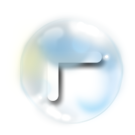
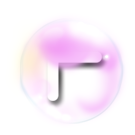
theme4

Changed region(s): [[0.1481, 0.1481, 0.9185, 0.8593], [0.2963, 0.7111, 0.3852, 0.7704]]

diff --git a/PopnTouchi2/PopnTouchi2/ViewModel/ThemeChooser.cs b/PopnTouchi2/PopnTouchi2/ViewModel/ThemeChooser.cs
@@ -29,7 +29,7 @@ namespace PopnTouchi2.ViewModel
         /// <summary>
         /// TODO
         /// </summary>
-        public StackPanel Themes { get; set; }
+        public Grid Themes { get; set; }
 
         private Border border1;
         private Grid GridTheme1;
@@ -37,6 +37,8 @@ namespace PopnTouchi2.ViewModel
         private Grid GridTheme2;
         private Border border3;
         private Grid GridTheme3;
+        private Border border4;
+        private Grid GridTheme4;
         public Grid Bird { get; set; }
 
         /// <summary>
@@ -51,8 +53,9 @@ namespace PopnTouchi2.ViewModel
             Grid.Background = new SolidColorBrush(Colors.Black);
             Grid.Opacity = 0.8;
 
-            Themes = new StackPanel();
-            Themes.Orientation = Orientation.Horizontal;
+            Themes = new Grid();
+            Themes.Width = 1036 * ratio;
+            Themes.Height = 626 * ratio;
             Themes.VerticalAlignment = VerticalAlignment.Center;
             Themes.HorizontalAlignment = HorizontalAlignment.Center;
             Themes.Opacity = 1;
@@ -60,7 +63,9 @@ namespace PopnTouchi2.ViewModel
             border1 = new Border();
             border1.BorderBrush = new SolidColorBrush(Colors.White);
             border1.BorderThickness = new Thickness(4.0 * ratio);
-            border1.Margin = new Thickness(20.0 * ratio, 0, 20.0 * ratio, 0);
+            border1.Margin = new Thickness(20.0 * ratio, 20.0 * ratio, 20.0 * ratio, 20.0 * ratio);
+            border1.HorizontalAlignment = HorizontalAlignment.Left;
+            border1.VerticalAlignment = VerticalAlignment.Top;
             GridTheme1 = new Grid();
             GridTheme1.Width = 470.0 * ratio;
             GridTheme1.Height = 265.0 * ratio;
@@ -74,7 +79,9 @@ namespace PopnTouchi2.ViewModel
             border2 = new Border();
             border2.BorderBrush = new SolidColorBrush(Colors.White);
             border2.BorderThickness = new Thickness(4.0 * ratio);
-            border2.Margin = new Thickness(20.0 * ratio, 0, 20.0 * ratio, 0);
+            border2.Margin = new Thickness(20.0 * ratio, 20.0 * ratio, 20.0 * ratio, 20.0 * ratio);
+            border2.HorizontalAlignment = HorizontalAlignment.Right;
+            border2.VerticalAlignment = VerticalAlignment.Top;
             GridTheme2 = new Grid();
             GridTheme2.Width = 470.0 * ratio;
             GridTheme2.Height = 265.0 * ratio;
@@ -88,7 +95,9 @@ namespace PopnTouchi2.ViewModel
             border3 = new Border();
             border3.BorderBrush = new SolidColorBrush(Colors.White);
             border3.BorderThickness = new Thickness(4.0 * ratio);
-            border3.Margin = new Thickness(20.0 * ratio, 0, 20.0 * ratio, 0);
+            border3.Margin = new Thickness(20.0 * ratio, 0, 20.0 * ratio, 20.0 * ratio);
+            border3.HorizontalAlignment = HorizontalAlignment.Left;
+            border3.VerticalAlignment = VerticalAlignment.Bottom;
             GridTheme3 = new Grid();
             GridTheme3.Width = 470.0 * ratio;
             GridTheme3.Height = 265.0 * ratio;
@@ -98,6 +107,22 @@ namespace PopnTouchi2.ViewModel
             border3.Child = GridTheme3;
 
             GridTheme3.PreviewTouchDown += new EventHandler<TouchEventArgs>(GridTheme3_TouchDown);
+
+            border4 = new Border();
+            border4.BorderBrush = new SolidColorBrush(Colors.White);
+            border4.BorderThickness = new Thickness(4.0 * ratio);
+            border4.Margin = new Thickness(20.0 * ratio, 0, 20.0 * ratio, 0);
+            border4.HorizontalAlignment = HorizontalAlignment.Right;
+            border4.VerticalAlignment = VerticalAlignment.Bottom;
+            GridTheme4 = new Grid();
+            GridTheme4.Width = 470.0 * ratio;
+            GridTheme4.Height = 265.0 * ratio;
+            ImageBrush img4 = new ImageBrush();
+            img4.ImageSource = new BitmapImage(new Uri(@"../../Resources/Images/Theme4/background.jpg", UriKind.Relative));
+            GridTheme4.Background = img4;
+            border4.Child = GridTheme4;
+
+            GridTheme4.PreviewTouchDown += new EventHandler<TouchEventArgs>(GridTheme4_TouchDown);
 
             Bird = new Grid();
             Bird.Width = 140.0 * ratio;
@@ -110,6 +135,7 @@ namespace PopnTouchi2.ViewModel
             Themes.Children.Add(border1);
             Themes.Children.Add(border2);
             Themes.Children.Add(border3);
+            Themes.Children.Add(border4);
             
         }
 
@@ -298,6 +324,68 @@ namespace PopnTouchi2.ViewModel
             sessionVM.Session.StopBackgroundSound();
             sessionVM.Session.Theme = new Theme3();
             sessionVM.Session.ThemeID = 3;
+            sessionVM.ThemeVM = new ThemeViewModel(sessionVM.Session.Theme, sessionVM);
+            sessionVM.Grid.Background = sessionVM.ThemeVM.BackgroundImage;
+
+            sessionVM.Grid.Children.Remove(sessionVM.NbgVM.Grid);
+            sessionVM.Grid.Children.Remove(sessionVM.MbgVM.Grid);
+            sessionVM.Grid.Children.Remove(sessionVM.Bubbles);
+            sessionVM.Grid.Children.Remove(sessionVM.UpdateSound.Grid);
+            sessionVM.Grid.Children.Remove(sessionVM.Play_Button);
+            sessionVM.Grid.Children.Remove(sessionVM.Theme_Button);
+            sessionVM.Grid.Children.Remove(sessionVM.TreeUp.Grid);
+            sessionVM.Grid.Children.Remove(sessionVM.TreeDown.Grid);
+
+
+            sessionVM.NbgVM = new NoteBubbleGeneratorViewModel(sessionVM.Session.NoteBubbleGenerator, sessionVM);
+            sessionVM.MbgVM = new MelodyBubbleGeneratorViewModel(sessionVM.Session.MelodyBubbleGenerator, sessionVM);
+            sessionVM.Bubbles = new ScatterView();
+            sessionVM.UpdateSound = new ChangeSoundViewModel(sessionVM);
+            sessionVM.Play_Button.Background = sessionVM.ThemeVM.PlayImage;
+            sessionVM.Theme_Button.Background = sessionVM.ThemeVM.ThemesImage;
+            sessionVM.Session.StaveTop.CurrentInstrument = sessionVM.Session.Theme.InstrumentsTop[0];
+            sessionVM.Session.StaveBottom.CurrentInstrument = sessionVM.Session.Theme.InstrumentsBottom[0];
+            sessionVM.displayTrees(new Thickness(20, 0, 0, 130), new Thickness(20, 0, 0, 580));
+
+            sessionVM.SetDimensions(sessionVM.SessionSVI.Width, sessionVM.SessionSVI.Height);
+            sessionVM.Session.PlayBackgroundSound();
+
+            sessionVM.Session.StaveTop.SetTheme(sessionVM.ThemeVM.Theme);
+            sessionVM.Session.StaveBottom.SetTheme(sessionVM.ThemeVM.Theme);
+
+            sessionVM.Grid.Children.Add(sessionVM.NbgVM.Grid);
+            sessionVM.Grid.Children.Add(sessionVM.MbgVM.Grid);
+            sessionVM.Grid.Children.Add(sessionVM.Bubbles);
+            sessionVM.Grid.Children.Add(sessionVM.UpdateSound.Grid);
+            sessionVM.Grid.Children.Add(sessionVM.Play_Button);
+            sessionVM.Grid.Children.Add(sessionVM.Theme_Button);
+
+            sessionVM.Grid.Children.Remove(Grid);
+            sessionVM.Grid.Children.Remove(Themes);
+        }
+
+        /// <summary>
+        /// TODO
+        /// </summary>
+        /// <param name="sender"></param>
+        /// <param name="e"></param>
+        private void GridTheme4_TouchDown(object sender, RoutedEventArgs e)
+        {
+            if (sessionVM.Session.ThemeID == 4)
+            {
+                sessionVM.Grid.Children.Remove(Grid);
+                sessionVM.Grid.Children.Remove(Themes);
+                return;
+            }
+
+            if (sessionVM.Session.ThemeID == 2)
+            {
+                sessionVM.Grid.Children.Remove(Bird);
+            }
+
+            sessionVM.Session.StopBackgroundSound();
+            sessionVM.Session.Theme = new Theme4();
+            sessionVM.Session.ThemeID = 4;
             sessionVM.ThemeVM = new ThemeViewModel(sessionVM.Session.Theme, sessionVM);
             sessionVM.Grid.Background = sessionVM.ThemeVM.BackgroundImage;
 
